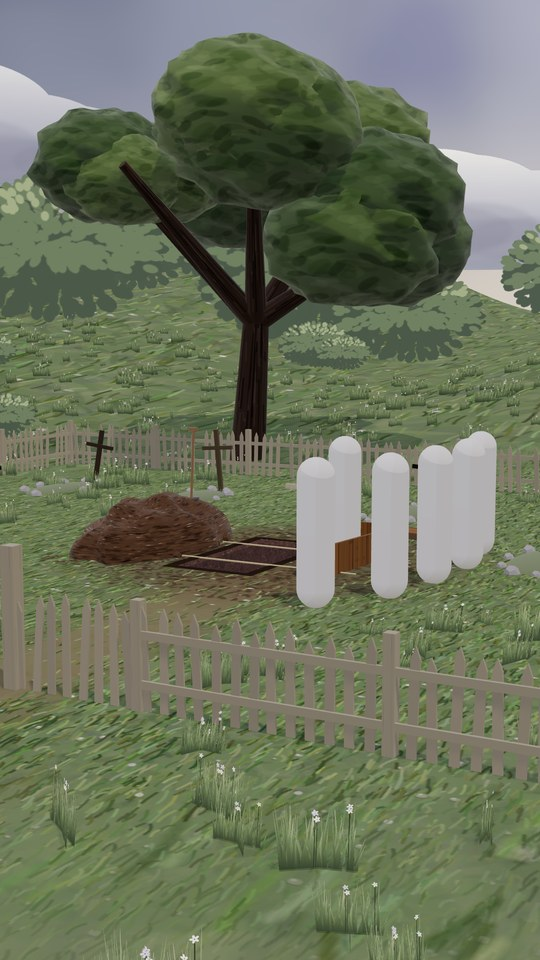
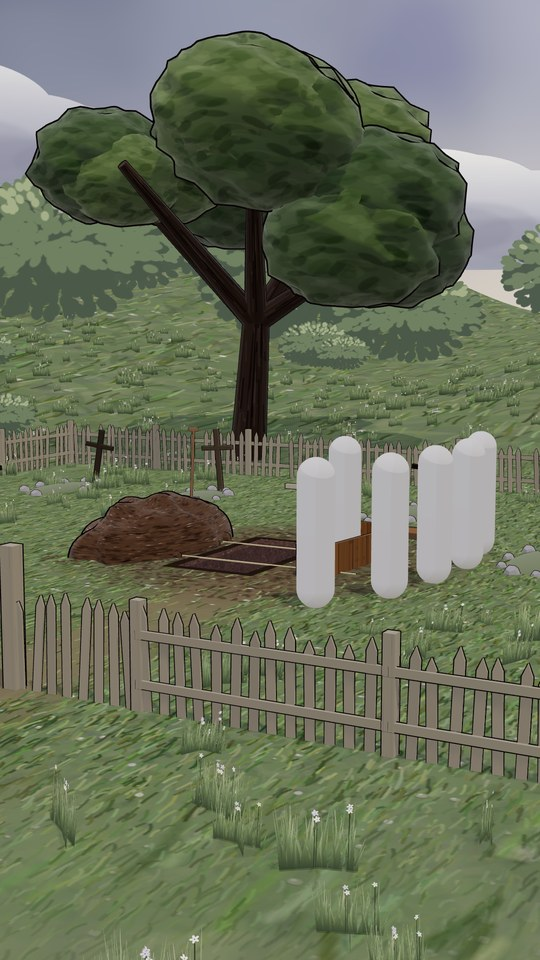
Stadium set (night game, floodlights, instanced cheering crowd); working ink outlines for cabin/graveyard/stadium
kit.ts inkMat offsets along objectNormal, which MeshBasicMaterial only declares for skinned or
env-mapped meshes, so ink shells on static props failed to compile. h2kit now has its own ink
(normal attribute, program cache keyed by width) used by these sets. Cabin pines kept clear of the cameras.

diff --git a/src/anime/sets/stadium.ts b/src/anime/sets/stadium.ts
@@ -1,4 +1,155 @@
-// STUB: replaced by the helper building this set.
+// Night game: one side of a football stadium under big floodlights. Field along X (centre at the origin, 100 yd + end zones),
+// the packed home stand rises on the -Z side. Crowd = instanced simple people that bob, jump and wave (deterministic per t).
+// Neutral colours only (blue/white home crowd mixed with assorted coats), no logos, no real school colours.
 import * as THREE from "three";
 import type { BuiltSet } from "./types";
-export const buildStadium = (): BuiltSet => { const g = new THREE.Group(); g.add(new THREE.AmbientLight("#ffffff", 1)); const m = new THREE.Mesh(new THREE.BoxGeometry(2, 2, 2), new THREE.MeshBasicMaterial({ color: "#cc4444" })); m.position.y = 1; g.add(m); return { group: g, update: () => {}, cams: { main: { pos: [0, 2, 8], look: [0, 1, 0], fov: 34 } }, marks: { center: [0, 0, 0] } }; };
+import { canvasTex, dab } from "../farm";
+import { smoothNormals } from "../kit";
+import { mkRnd, toonN, noShadow, glow, glowSprite, cyl, paintedSky, keyLight, ink, box, inkMatS } from "./h2kit";
+
+const YD = 0.9144; const HALF_W = 26.67 * YD; const END = 60 * YD; // sideline z = +-24.38, back of end zone x = +-54.86
+export const buildStadium = (): BuiltSet => {
+  const rnd = mkRnd(311); const g = new THREE.Group();
+  // ---------- field: painted turf with mowing stripes, yard lines, hashes, numbers ----------
+  const FW = 124, FD = 60, PXX = 4096 / FW, PXZ = 2048 / FD; const F = (x: number, z: number): [number, number] => [(x + FW / 2) * PXX, (z + FD / 2) * PXZ];
+  const fieldTex = canvasTex(4096, 2048, (c) => {
+    c.fillStyle = "#3e5a3a"; c.fillRect(0, 0, 4096, 2048); // run-off: darker, a touch of the track
+    const [ax, az] = F(-END, -HALF_W), [bx, bz] = F(END, HALF_W);
+    for (let i = 0; i < 24; i++) { const x0 = -END + i * 5 * YD; const [p] = F(x0, 0), [q] = F(x0 + 5 * YD, 0); c.fillStyle = i % 2 ? "#4f8a3e" : "#5a9846"; c.fillRect(p, az, q - p + 1, bz - az); } // mowing stripes every 5 yd
+    for (let i = 0; i < 26000; i++) dab(c, ax + rnd() * (bx - ax), az + rnd() * (bz - az), 3 + rnd() * 10, 1.5 + rnd() * 3, rnd() * 3, ["rgba(120,170,80,0.18)", "rgba(40,70,40,0.16)", "rgba(160,200,110,0.12)"][(rnd() * 3) | 0]);
+    for (let i = 0; i < 60; i++) { const x = (rnd() - 0.5) * 2 * 40, z = (rnd() - 0.5) * 2 * 18; const [p, q] = F(x, z); const r = 20 + rnd() * 60; const gr = c.createRadialGradient(p, q, 0, p, q, r); gr.addColorStop(0, "rgba(120,110,70,0.18)"); gr.addColorStop(1, "rgba(0,0,0,0)"); c.fillStyle = gr; c.fillRect(p - r, q - r, 2 * r, 2 * r); } // worn patches
+    // end zones: neutral slate with thin white diagonals
+    for (const s of [-1, 1]) { const [p] = F(s * 50 * YD, 0), [q] = F(s * END, 0); const x0 = Math.min(p, q), w = Math.abs(q - p); c.fillStyle = "#355a74"; c.fillRect(x0, az, w, bz - az);
+      c.save(); c.beginPath(); c.rect(x0, az, w, bz - az); c.clip(); c.strokeStyle = "rgba(240,244,250,0.55)"; c.lineWidth = 7; for (let k = -40; k < 40; k++) { const o = x0 + k * 70; c.beginPath(); c.moveTo(o, az); c.lineTo(o + (bz - az), bz); c.stroke(); } c.restore(); }
+    const white = "rgba(246,248,244,0.95)"; c.fillStyle = white;
+    const lw = 0.1 * PXX; for (let y = -50; y <= 50; y += 5) { const [p] = F(y * YD, 0); c.fillRect(p - lw / 2, az, lw, bz - az); }
+    for (const s of [-1, 1]) { const [p] = F(s * END, 0); c.fillRect(p - lw, az, lw * 2, bz - az); }
+    c.fillRect(ax, az - lw, bx - ax, lw * 2); c.fillRect(ax, bz - lw, bx - ax, lw * 2);                         // sidelines
+    for (let y = -49; y <= 49; y++) { if (y % 5 === 0) continue; const [p] = F(y * YD, 0); for (const z of [-HALF_W + 0.3, -6.1, 6.1, HALF_W - 0.9]) { const [, q] = F(0, z); c.fillRect(p - lw / 2, q, lw, 0.6 * PXZ); } } // hashes
+    c.font = `bold ${Math.round(1.8 * PXZ)}px sans-serif`; c.textAlign = "center"; c.textBaseline = "middle";
+    for (let y = -40; y <= 40; y += 10) { const n = 50 - Math.abs(y); const [p] = F(y * YD, 0);
+      for (const s of [-1, 1]) { const [, q] = F(0, s * (HALF_W - 11.5)); c.save(); c.translate(p, q); c.rotate(s > 0 ? 0 : Math.PI); c.fillText(n === 50 ? "5 0" : `${n / 10}   0`.replace("   ", " "), 0, 0); c.restore(); } }
+    for (let i = 0; i < 9000; i++) { const x = ax + rnd() * (bx - ax), y = az + rnd() * (bz - az); dab(c, x, y, 1 + rnd() * 2, 0.6, rnd() * 3, "rgba(30,60,30,0.22)"); } // scuffs over the paint
+  });
+  const turfDetail = canvasTex(256, 256, (c) => { c.fillStyle = "#ffffff"; c.fillRect(0, 0, 256, 256); for (let i = 0; i < 2200; i++) { const x = rnd() * 256, y = rnd() * 256; c.strokeStyle = `rgba(${150 + rnd() * 60},${150 + rnd() * 60},${150 + rnd() * 60},0.8)`; c.lineWidth = 1.3; c.beginPath(); c.moveTo(x, y); c.lineTo(x + (rnd() - 0.5) * 3, y - 4 - rnd() * 5); c.stroke(); } }, [FW * 1.5, FD * 1.5]);
+  const ramp = new THREE.DataTexture(new Uint8Array([110, 120, 160, 255, 200, 205, 215, 255, 255, 255, 255, 255]), 3, 1); ramp.minFilter = ramp.magFilter = THREE.NearestFilter; ramp.needsUpdate = true;
+  const field = new THREE.Mesh(new THREE.PlaneGeometry(FW, FD), new THREE.MeshToonMaterial({ map: fieldTex, gradientMap: ramp, aoMap: turfDetail, aoMapIntensity: 0.6, emissive: "#2a3a68", emissiveMap: fieldTex, emissiveIntensity: 0.3 })); field.rotation.x = -Math.PI / 2; g.add(field);
+  const outer = new THREE.Mesh(new THREE.CircleGeometry(400, 48), new THREE.MeshBasicMaterial({ color: "#0e1424" })); outer.rotation.x = -Math.PI / 2; outer.position.y = -0.03; g.add(noShadow(outer));
+
+  // ---------- goalposts (gooseneck, yellow, padded base) ----------
+  const yel = toonN("#f2cc3a", { shade: 0.6, rim: 0.3 }); const pad = toonN("#3a4a6a", { shade: 0.55 });
+  for (const s of [-1, 1]) { const gp = new THREE.Group(); const x = s * END;
+    gp.add(cyl(0.17, 0.17, 3.05, yel, s * 1.8, 1.52, 0, 0.02, 12)); gp.add(cyl(0.3, 0.3, 2.0, pad, s * 1.8, 1.0, 0, 0.02, 14));
+    const neck = new THREE.Mesh(new THREE.TorusGeometry(0.9, 0.12, 8, 16, Math.PI / 2), yel); neck.rotation.y = s > 0 ? 0 : Math.PI; neck.position.set(s * 0.9, 3.05, 0); ink(neck, 0.015); gp.add(neck);
+    const bar = cyl(0.1, 0.1, 5.64, yel, 0, 3.95, 0, 0.015, 10); bar.rotation.x = Math.PI / 2; gp.add(bar);
+    for (const z of [-2.82, 2.82]) gp.add(cyl(0.07, 0.07, 9.2, yel, 0, 3.95 + 4.6, z, 0.012, 10));
+    for (const z of [-2.82, 2.82]) { const rib = box(0.03, 1.0, 0.25, new THREE.MeshBasicMaterial({ color: "#e6eef8", toneMapped: false }), 0, 3.95 + 9.0, z, 0.004); gp.add(rib); } // wind ribbons
+    gp.position.x = x; g.add(gp); }
+
+  // ---------- the home stand (-Z side) ----------
+  const rows = 34, rise = 0.46, deep = 0.86, wallH = 1.7, z0 = -HALF_W - 4.2, SX = 58; // stand front wall at z ~ -28.6
+  const concrete = toonN("#8c8c9a", { shade: 0.55, map: canvasTex(256, 256, (c) => { c.fillStyle = "#c4c4cc"; c.fillRect(0, 0, 256, 256); for (let i = 0; i < 900; i++) dab(c, rnd() * 256, rnd() * 256, 2 + rnd() * 8, 1 + rnd() * 3, rnd() * 3, rnd() < 0.5 ? "rgba(90,90,110,0.12)" : "rgba(255,255,255,0.15)"); }, [20, 1]) });
+  // stepped concrete as one extruded profile
+  const prof = new THREE.Shape(); prof.moveTo(0, 0); prof.lineTo(0, wallH); for (let i = 0; i < rows; i++) { prof.lineTo(i * deep + deep, wallH + i * rise); prof.lineTo(i * deep + deep, wallH + (i + 1) * rise); } prof.lineTo(rows * deep + 1.5, wallH + rows * rise); prof.lineTo(rows * deep + 1.5, 0); prof.closePath();
+  const standGeo = new THREE.ExtrudeGeometry(prof, { depth: SX * 2, bevelEnabled: false }); standGeo.rotateY(Math.PI / 2); // profile x -> -Z... rotateY(+90) maps x -> -z, extrude z -> x
+  standGeo.translate(-SX, 0, z0); const stand = new THREE.Mesh(standGeo, concrete); ink(stand, 0.03); g.add(stand);
+  const rowY = (i: number) => wallH + i * rise, rowZ = (i: number) => z0 - i * deep - deep * 0.55;
+  // padded front wall with plain panels + top rail, aisles (stairs), vomitory tunnels
+  const wallTex = canvasTex(1024, 64, (c) => { for (let i = 0; i < 16; i++) { c.fillStyle = i % 2 ? "#28406a" : "#2e4a78"; c.fillRect(i * 64, 0, 64, 64); c.fillStyle = "rgba(240,240,250,0.85)"; c.fillRect(i * 64, 44, 64, 6); c.fillStyle = "rgba(0,0,0,0.35)"; c.fillRect(i * 64, 0, 2, 64); } }, [8, 1]);
+  g.add(box(SX * 2, wallH, 0.3, toonN("#c8d4ec", { map: wallTex, shade: 0.55 }), 0, wallH / 2, z0 + 0.16, 0.02));
+  const railM = toonN("#c8ccd8", { shade: 0.5, rim: 0.4 }); { const r = cyl(0.04, 0.04, SX * 2, railM, 0, wallH + 0.95, z0 - 0.25, 0.008, 6); r.rotation.z = Math.PI / 2; g.add(r); for (let x = -SX; x <= SX; x += 3) g.add(cyl(0.03, 0.03, 0.95, railM, x, wallH + 0.47, z0 - 0.25, 0, 6)); }
+  const aisles = [-44, -30, -15, 0, 15, 30, 44];
+  for (const ax of aisles) { const r = cyl(0.03, 0.03, Math.hypot(rows * deep, rows * rise), railM, ax, wallH + rows * rise / 2 + 0.9, z0 - rows * deep / 2, 0.006, 6); r.rotation.x = -Math.atan2(rows * deep, rows * rise); g.add(r);
+    for (let i = 0; i < rows; i++) g.add(box(1.1, 0.06, deep * 0.5, toonN("#e8d24a", { shade: 0.6 }), ax, rowY(i) + 0.03, z0 - i * deep - deep * 0.25, 0)); }
+  // bench seats (merged, one per row segment)
+  const seatM = toonN("#9aa6bc", { shade: 0.55 }); for (let i = 0; i < rows; i++) { const b = box(SX * 2, 0.06, 0.32, seatM, 0, rowY(i) + 0.45, rowZ(i) + 0.18, 0.006); g.add(b); }
+  // press box + back wall + roof edge lights on top of the stand
+  const topY = wallH + rows * rise, backZ = z0 - rows * deep - 1.5;
+  g.add(box(SX * 2 + 2, 2.4, 0.5, concrete, 0, topY + 1.2, backZ, 0.02));
+  const pb = new THREE.Group(); pb.add(box(40, 6, 6, toonN("#5a6274", { shade: 0.5 }), 0, 3, 0, 0.03)); pb.add(box(41, 0.4, 7, toonN("#3a4252", { shade: 0.5 }), 0, 6.2, 0, 0.02));
+  const winTex = canvasTex(1024, 64, (c) => { c.fillStyle = "#1a1e2a"; c.fillRect(0, 0, 1024, 64); for (let i = 0; i < 26; i++) { const gr = c.createLinearGradient(0, 8, 0, 56); gr.addColorStop(0, "#fff2c8"); gr.addColorStop(1, "#e8b070"); c.fillStyle = rnd() < 0.85 ? gr : "#3a3a50"; c.fillRect(8 + i * 39, 8, 33, 48); for (let k = 0; k < 2; k++) if (rnd() < 0.6) { c.fillStyle = "rgba(40,30,40,0.8)"; c.beginPath(); c.arc(16 + i * 39 + rnd() * 18, 50, 7, Math.PI, 0); c.fill(); } } });
+  const pw = new THREE.Mesh(new THREE.PlaneGeometry(38, 2.2), new THREE.MeshBasicMaterial({ map: winTex, toneMapped: false })); pw.position.set(0, 3.4, 3.02); pb.add(noShadow(pw)); pb.position.set(0, topY + 0.2, backZ - 3.2); g.add(pb);
+  // stand end walls
+  for (const s of [-1, 1]) { const e = new THREE.Mesh(new THREE.ShapeGeometry(prof), concrete); e.rotation.y = Math.PI / 2; e.position.set(s * SX * 1.0005, 0, z0); if (s < 0) { e.rotation.y = -Math.PI / 2; e.scale.x = -1; } g.add(e); }
+
+  // ---------- the crowd: instanced bodies, heads, raised arms; bob / jump / wave ----------
+  const homeCols = ["#3a5688", "#3a5688", "#ecebe4", "#2c4470", "#ecebe4", "#5a74a4"]; const misc = ["#8a3a3a", "#c89a48", "#4a6a4a", "#6a5a8a", "#a8a8b4", "#3a3a44", "#a86a4a", "#d8ccb0", "#5a4a40", "#7a8a9a"];
+  const skin = ["#f2c8a8", "#e0aa84", "#b07a58", "#7a5038", "#f6d8bc"]; const hair = ["#2a1e1a", "#5a3a24", "#c89858", "#1a1a1e", "#8a5a3a", "#d8d0c8"];
+  type P = { x: number; y: number; z: number; ph: number; mode: number; s: number }; const ppl: P[] = [];
+  for (let i = 0; i < rows; i++) for (let x = -SX + 0.4; x < SX - 0.3; x += 0.58) { if (aisles.some((a) => Math.abs(x - a) < 0.7)) continue; if (rnd() < 0.05) continue; ppl.push({ x: x + (rnd() - 0.5) * 0.14, y: rowY(i), z: rowZ(i) + (rnd() - 0.5) * 0.1, ph: rnd() * 6.28, mode: rnd() < 0.42 ? 2 : rnd() < 0.5 ? 1 : 0, s: 0.92 + rnd() * 0.14 }); }
+  const N = ppl.length;
+  const crowdMat = (rough = false) => new THREE.MeshToonMaterial({ gradientMap: ramp, color: "#ffffff", emissive: "#1c2448", emissiveIntensity: rough ? 0.5 : 0.4 });
+  const bodyGeo = new THREE.CylinderGeometry(0.17, 0.22, 0.95, 8); bodyGeo.translate(0, 0.95 / 2 + 0.55, 0);
+  const headGeo = new THREE.SphereGeometry(0.115, 10, 8); headGeo.translate(0, 1.66, 0);
+  const hairGeo = new THREE.SphereGeometry(0.122, 10, 6, 0, Math.PI * 2, 0, Math.PI * 0.55); hairGeo.translate(0, 1.68, -0.01);
+  const armGeo = new THREE.BoxGeometry(0.09, 0.62, 0.09); armGeo.translate(0, 0.31, 0);
+  const bodies = new THREE.InstancedMesh(bodyGeo, crowdMat(), N), heads = new THREE.InstancedMesh(headGeo, crowdMat(), N), hairs = new THREE.InstancedMesh(hairGeo, crowdMat(), N), arms = new THREE.InstancedMesh(armGeo, crowdMat(), N * 2);
+  const col = new THREE.Color(); ppl.forEach((p, i) => { const home = Math.abs(p.x) < 40 ? 0.58 : 0.35; const shirt = rnd() < home ? homeCols[(rnd() * homeCols.length) | 0] : misc[(rnd() * misc.length) | 0];
+    bodies.setColorAt(i, col.set(shirt)); heads.setColorAt(i, col.set(skin[(rnd() * skin.length) | 0])); hairs.setColorAt(i, col.set(rnd() < 0.2 ? shirt : hair[(rnd() * hair.length) | 0])); arms.setColorAt(i * 2, col.set(shirt)); arms.setColorAt(i * 2 + 1, col.set(shirt)); });
+  for (const m of [bodies, heads, hairs, arms]) { m.frustumCulled = false; g.add(m); }
+  // ink outlines for the crowd: instanced back-face shells sharing the same instance matrices
+  for (const [m, w] of [[bodies, 0.025], [heads, 0.016], [arms, 0.016]] as [THREE.InstancedMesh, number][]) { const sg = smoothNormals(m.geometry); const p = sg.getAttribute("position") as THREE.BufferAttribute, n = sg.getAttribute("normal") as THREE.BufferAttribute; for (let i = 0; i < p.count; i++) p.setXYZ(i, p.getX(i) + n.getX(i) * w, p.getY(i) + n.getY(i) * w, p.getZ(i) + n.getZ(i) * w); // pre-inflated: inkMat programs share one cached width
+    const o = new THREE.InstancedMesh(sg, inkMatS(0), m.count); o.instanceMatrix = m.instanceMatrix; o.frustumCulled = false; noShadow(o); g.add(o); }
+  // a few plain hand-held cards and foam fingers (no text) + pom-poms
+  const cardM = new THREE.InstancedMesh(new THREE.BoxGeometry(0.7, 0.45, 0.02), crowdMat(), 60); const cardIdx: number[] = []; for (let k = 0; k < 60; k++) { const i = (rnd() * N) | 0; cardIdx.push(i); cardM.setColorAt(k, col.set(["#f2f2ee", "#f2d24a", "#2e5a9a", "#e86a4a"][k % 4])); } cardM.frustumCulled = false; g.add(cardM);
+  const M4 = new THREE.Matrix4(), Q = new THREE.Quaternion(), E = new THREE.Euler(), V = new THREE.Vector3(), S = new THREE.Vector3();
+  const poseCrowd = (t: number) => { ppl.forEach((p, i) => {
+      const beat = t * (p.mode === 2 ? 5.2 : 3.1) + p.ph; const jump = p.mode === 2 ? Math.max(0, Math.sin(beat)) * 0.16 : p.mode === 1 ? Math.abs(Math.sin(beat)) * 0.05 : Math.sin(beat * 0.5) * 0.015; const sway = Math.sin(t * 1.7 + p.ph) * 0.06;
+      S.setScalar(p.s); Q.setFromEuler(E.set(0.12, 0, sway)); V.set(p.x, p.y + jump, p.z); M4.compose(V, Q, S); bodies.setMatrixAt(i, M4); heads.setMatrixAt(i, M4); hairs.setMatrixAt(i, M4);
+      for (const side of [-1, 1]) { const up = p.mode === 2 ? 2.6 + Math.sin(beat + side) * 0.25 : p.mode === 1 ? (side > 0 ? 2.9 + Math.sin(beat * 2) * 0.35 : 0.15) : 0.15; Q.setFromEuler(E.set(0.1, 0, -side * (Math.PI - up))); V.set(p.x + side * 0.2 * p.s, p.y + jump + 1.38 * p.s, p.z); M4.compose(V, Q, S); arms.setMatrixAt(i * 2 + (side > 0 ? 1 : 0), M4); } });
+    cardIdx.forEach((i, k) => { const p = ppl[i]; const beat = t * 3 + p.ph; Q.setFromEuler(E.set(0.15, 0, Math.sin(beat) * 0.2)); V.set(p.x, p.y + 2.0 + Math.abs(Math.sin(beat)) * 0.12, p.z + 0.05); M4.compose(V, Q, S.setScalar(1)); cardM.setMatrixAt(k, M4); });
+    for (const m of [bodies, heads, hairs, arms, cardM]) m.instanceMatrix.needsUpdate = true; };
+  poseCrowd(0);
+
+  // ---------- floodlight towers: lattice pole, lamp bank, glow, light beams ----------
+  const towerM = toonN("#6a7080", { shade: 0.5, rim: 0.3 }); const lampM = new THREE.MeshBasicMaterial({ color: "#f4f8ff", toneMapped: false });
+  const beamTex = canvasTex(64, 256, (c) => { const gr = c.createLinearGradient(0, 0, 0, 256); gr.addColorStop(0, "rgba(220,235,255,0.55)"); gr.addColorStop(1, "rgba(200,220,255,0)"); c.fillStyle = gr; c.fillRect(0, 0, 64, 256); const h = c.createLinearGradient(0, 0, 64, 0); h.addColorStop(0, "rgba(0,0,0,1)"); h.addColorStop(0.5, "rgba(0,0,0,0)"); h.addColorStop(1, "rgba(0,0,0,1)"); c.globalCompositeOperation = "destination-out"; c.fillStyle = h; c.fillRect(0, 0, 64, 256); });
+  const flareT = glow("rgba(235,242,255,1)"); const haloT = glow("rgba(170,195,255,0.7)");
+  const tower = (x: number, z: number, h: number) => { const tg = new THREE.Group(); const L = 1.6;
+    for (const [sx, sz] of [[-1, -1], [1, -1], [1, 1], [-1, 1]]) tg.add(box(0.14, h, 0.14, towerM, sx * L / 2, h / 2, sz * L / 2, 0.01));
+    for (let y = 2; y < h; y += 2.4) { for (const sz of [-1, 1]) { const b = box(L * 1.4, 0.06, 0.06, towerM, 0, y + 1.2, sz * L / 2, 0); b.rotation.z = 0.98 * (Math.floor(y / 2.4) % 2 ? 1 : -1); tg.add(b); } for (const sx of [-1, 1]) { const b = box(0.06, 0.06, L * 1.4, towerM, sx * L / 2, y + 1.2, 0, 0); b.rotation.x = 0.98 * (Math.floor(y / 2.4) % 2 ? 1 : -1); tg.add(b); } }
+    const head = new THREE.Group(); head.position.set(0, h + 2.2, 0); head.add(box(9, 4.6, 0.4, towerM, 0, 0, 0, 0.02)); for (let r = 0; r < 3; r++) head.add(box(9.2, 0.12, 0.6, towerM, 0, -2.1 + r * 1.55, 0.3, 0.01));
+    for (let r = 0; r < 3; r++) for (let k = 0; k < 6; k++) { const lx = -3.75 + k * 1.5, ly = -1.5 + r * 1.55; const cup = cyl(0.62, 0.5, 0.5, towerM, lx, ly, 0.35, 0.012, 14); cup.rotation.x = Math.PI / 2; head.add(cup); const lens = new THREE.Mesh(new THREE.CircleGeometry(0.5, 20), lampM); lens.position.set(lx, ly, 0.62); head.add(noShadow(lens));
+      const f = glowSprite(flareT, 2.6, 0.75); f.position.set(lx, ly, 0.9); head.add(f); }
+    const halo = glowSprite(haloT, 26, 0.55); halo.position.set(0, 0, 1.5); head.add(halo);
+    // aim the lamp bank at the field centre
+    tg.position.set(x, 0, z); tg.add(head); head.rotation.order = "YXZ"; head.rotation.set(0.35, Math.atan2(-x, -z), 0);
+    // soft additive beams fanning from the lamps to the field
+    const beams: THREE.Mesh[] = []; for (let k = 0; k < (z > 0 ? 0 : 4); k++) { const len = Math.hypot(x, z, h) * 0.9; const b = new THREE.Mesh(new THREE.ConeGeometry(6 + k * 2.5, len, 24, 1, true), new THREE.MeshBasicMaterial({ map: beamTex, transparent: true, depthWrite: false, blending: THREE.AdditiveBlending, side: THREE.DoubleSide, toneMapped: false, opacity: 0.07, fog: false }));
+      b.geometry.translate(0, -len / 2, 0); b.position.set(x, h + 2.2, z); const tgt = new THREE.Vector3((rnd() - 0.5) * 30 - x * 0.2, 0, (rnd() - 0.5) * 20 - z * 0.15); const d = tgt.clone().sub(b.position).normalize(); b.quaternion.setFromUnitVectors(new THREE.Vector3(0, -1, 0), d); g.add(noShadow(b)); beams.push(b); }
+    g.add(tg); return tg; };
+  const TH = 38; for (const [x, z] of [[-42, backZ - 14], [42, backZ - 14], [-62, 38], [62, 38]] as [number, number][]) tower(x, z, TH);
+  // scoreboard at the west end (plain, no brand): HOME 21  GUEST 17, 4th quarter clock
+  const sb = new THREE.Group(); sb.add(box(14, 6.5, 0.8, toonN("#2a2e3a", { shade: 0.5 }), 0, 0, 0, 0.03)); for (const sx of [-4.5, 4.5]) sb.add(box(0.6, 12, 0.6, towerM, sx, -6.5, -0.5, 0.02));
+  const sbTex = canvasTex(1024, 448, (c) => { c.fillStyle = "#0c0e14"; c.fillRect(0, 0, 1024, 448); c.textAlign = "center"; c.fillStyle = "#f4f2e8"; c.font = "bold 64px sans-serif"; c.fillText("HOME", 250, 90); c.fillText("GUEST", 774, 90);
+    c.fillStyle = "#ffb84a"; c.font = "bold 180px monospace"; c.fillText("21", 250, 270); c.fillText("17", 774, 270); c.fillStyle = "#ff6a4a"; c.font = "bold 90px monospace"; c.fillText("0:42", 512, 400); c.fillStyle = "#f4f2e8"; c.font = "bold 50px sans-serif"; c.fillText("QTR 4", 512, 200); });
+  const sbFace = new THREE.Mesh(new THREE.PlaneGeometry(13, 5.7), new THREE.MeshBasicMaterial({ map: sbTex, toneMapped: false })); sbFace.position.z = 0.42; sb.add(noShadow(sbFace)); sb.position.set(-END - 18, 14, -6); sb.rotation.y = Math.PI / 2; g.add(sb);
+  // team benches + a few sideline props on the far (-Z) sideline
+  for (const s of [-1, 1]) { g.add(box(14, 0.08, 0.45, toonN("#c8ccd8"), s * 14, 0.48, -HALF_W - 2.3, 0.008)); for (let k = 0; k < 5; k++) g.add(box(0.08, 0.48, 0.4, towerM, s * 14 - 6.5 + k * 3.25, 0.24, -HALF_W - 2.3, 0)); }
+  for (const s of [-1, 1]) { const cooler = cyl(0.3, 0.3, 0.6, toonN("#e8823a", { shade: 0.55 }), s * 5.5, 0.3, -HALF_W - 1.8, 0.012, 14); g.add(cooler); g.add(cyl(0.31, 0.31, 0.08, toonN("#f2f2ee"), s * 5.5, 0.64, -HALF_W - 1.8, 0.008, 14)); }
+  // sideline markers (plain orange pylons at the goal line corners)
+  for (const sx of [-1, 1]) for (const sz of [-1, 1]) for (const x of [50 * YD, END]) g.add(box(0.1, 0.45, 0.1, toonN("#ff7a2a", { shade: 0.6 }), sx * x, 0.225, sz * HALF_W, 0.006));
+
+  // ---------- sky + lights ----------
+  g.add(paintedSky({ zen: "#050817", mid: "#0f1a3a", hor: "#2a3a66", below: "#0a1020", light: new THREE.Vector3(0, 0.25, -1), lightCol: "#3a4c80", lightPow: 3, stars: 0.5 }));
+  // floodlit haze: a big soft glow over the stand roofline
+  const haze = glowSprite(glow("rgba(120,150,220,0.6)"), 140, 0.35); haze.position.set(0, topY + 10, backZ - 30); g.add(haze);
+  // moths / bugs in the light beams near the camera-side towers? keep it clean: a few floating confetti flecks over the stand
+  const NC = 220; const cg = new THREE.BufferGeometry(); const c0 = new Float32Array(NC * 3); const cc = new Float32Array(NC * 3); for (let i = 0; i < NC; i++) { c0.set([(rnd() - 0.5) * 90, 2 + rnd() * 16, z0 - rnd() * 26], i * 3); col.set(["#f2f2ee", "#2e5a9a", "#f2d24a"][i % 3]); cc.set([col.r, col.g, col.b], i * 3); }
+  cg.setAttribute("position", new THREE.BufferAttribute(c0.slice(), 3)); cg.setAttribute("color", new THREE.BufferAttribute(cc, 3)); const conf = new THREE.Points(cg, new THREE.PointsMaterial({ size: 0.12, vertexColors: true, toneMapped: false })); g.add(conf);
+  g.add(new THREE.HemisphereLight("#7a8cd0", "#1a2a1a", 0.9));
+  const key = keyLight("#eef4ff", 2.3, new THREE.Vector3(0.25, 0.75, 0.62), 70, new THREE.Vector3(0, 0, -18)); key.shadow.camera.far = 220; key.position.copy(new THREE.Vector3(0, 0, -18)).addScaledVector(new THREE.Vector3(0.25, 0.75, 0.62).normalize(), 110); g.add(key, key.target);
+  const back = new THREE.DirectionalLight("#c4d4ff", 1.0); back.position.set(-20, 40, -80); g.add(back);
+  const fieldFill = new THREE.DirectionalLight("#e8f0ff", 0.5); fieldFill.position.set(30, 50, 20); g.add(fieldFill);
+  const fog = new THREE.Fog("#141c38", 80, 300);
+  return {
+    group: g, fog,
+    update: (t) => { poseCrowd(t); const p = cg.getAttribute("position") as THREE.BufferAttribute; for (let i = 0; i < NC; i++) { const y = c0[i * 3 + 1] - ((t * (0.6 + (i % 7) * 0.08)) % 18); p.setXYZ(i, c0[i * 3] + Math.sin(t * 1.5 + i) * 0.5, y < 1.8 ? y + 18 : y, c0[i * 3 + 2] + Math.cos(t + i) * 0.3); } p.needsUpdate = true; },
+    cams: {
+      main: { pos: [-24, 9, 26], look: [4, 7, -32], fov: 50 },
+      field: { pos: [1.2, 0.75, -12.5], look: [0, 1.6, -21.5], fov: 44 },
+      crowd: { pos: [-2.5, 2.2, -21.5], look: [2.5, 8.5, -36], fov: 46 },
+    },
+    marks: { mascot: [0, 0, -21.5], crowdFront: [0.6, rowY(0), rowZ(0) - 0.1] },
+  };
+};

diff --git a/src/anime/sets/cabin.ts b/src/anime/sets/cabin.ts
@@ -2,8 +2,8 @@
 // comes up from +Z. Rifle leaning by the door, two silhouettes behind the lit window (object "windowSilhouettes", hide if not wanted).
 import * as THREE from "three";
 import type { BuiltSet } from "./types";
-import { canvasTex, dab, ink, box, stones } from "../farm";
-import { mkRnd, toonN, noShadow, glow, glowSprite, lightPool, cyl, paintedSky, pine3D, pineTex, grassTex, grassField, groundMat, keyLight } from "./h2kit";
+import { canvasTex, dab, stones } from "../farm";
+import { mkRnd, toonN, noShadow, glow, glowSprite, lightPool, cyl, paintedSky, pine3D, pineTex, grassTex, grassField, groundMat, keyLight, ink, box } from "./h2kit";
 
 const MOON_SKY = new THREE.Vector3(-0.12, 0.27, -1).normalize(); // where the moon sits in the sky (behind the cabin for the approach)
 const MOON_KEY = new THREE.Vector3(-0.6, 0.68, 0.42);               // where the moonlight comes from (cheated round to the front-left, anime style)
@@ -162,7 +162,8 @@ export const buildCabin = (): BuiltSet => {
 
   // ---------- the pine wood: 3D pines round the clearing, painted billboards behind ----------
   const pineM = [toonN("#2f5a4e", { shade: 0.45, rim: 0.25 }), toonN("#28503f", { shade: 0.45, rim: 0.25 }), toonN("#35604c", { shade: 0.45, rim: 0.25 })]; const barkM = toonN("#4a3a34", { shade: 0.5 });
-  const clear = (x: number, z: number, r: number) => Math.hypot(x * 0.85, z - 1) < r || (z > 3 && Math.abs(x - trackX(z)) < 3.8 + z * 0.02);
+  const camXZ = [[8.5, 15.5], [trackX(30) + 0.6, 30], [2.2, 9.8]]; // keep trunks + boughs away from the shot cameras
+  const clear = (x: number, z: number, r: number) => Math.hypot(x * 0.85, z - 1) < r || (z > 3 && Math.abs(x - trackX(z)) < 3.8 + z * 0.02) || camXZ.some(([cx, cz]) => Math.hypot(x - cx, z - cz) < 6);
   let placed = 0; for (let i = 0; i < 900 && placed < 70; i++) { const a = rnd() * Math.PI * 2, d = 13 + rnd() * 32; const x = Math.sin(a) * d * 1.1, z = Math.cos(a) * d + 1; if (clear(x, z, 13)) continue; const h = 9 + rnd() * 9; const p = pine3D(h, pineM[(rnd() * 3) | 0], barkM, rnd, 0.035); p.position.set(x, 0, z); p.rotation.y = rnd() * 6; g.add(p); placed++; }
   for (const [x, z, h] of [[-8.5, -5, 11], [7.8, -6, 13], [-11, 4, 9.5], [10.5, 3, 10], [-6.5, 12, 7], [12, 20, 8.5], [-8, 21, 9]] as [number, number, number][]) { const p = pine3D(h, pineM[(rnd() * 3) | 0], barkM, rnd, 0.03); p.position.set(x, 0, z); g.add(p); }
   const ptex = [pineTex("#1f3a40", "#142630", "rgba(150,190,230,0.55)", rnd), pineTex("#22413f", "#162a2e", "rgba(140,180,225,0.5)", rnd)];

diff --git a/src/anime/sets/h2kit.ts b/src/anime/sets/h2kit.ts
@@ -1,7 +1,19 @@
 // Shared helpers for the cabin / graveyard / campus / stadium sets (same painterly anime look as farm.ts).
 import * as THREE from "three";
 import { toon } from "../kit";
-import { canvasTex, dab, ink } from "../farm";
+import { canvasTex, dab } from "../farm";
+import { smoothNormals } from "../kit";
+
+// Ink outline that works on static meshes: kit.ts inkMat offsets along objectNormal, which MeshBasicMaterial only declares
+// for skinned / env-mapped meshes (so farm.ts ink shells fail to compile on props). This one uses the normal attribute
+// and keys the program cache by width (otherwise every width shares the first compiled program).
+const inkCache = new Map<string, THREE.MeshBasicMaterial>();
+export const inkMatS = (w = 0.02, color = "#1b1416") => { const key = w.toFixed(5) + color; let m = inkCache.get(key); if (m) return m;
+  m = new THREE.MeshBasicMaterial({ color, side: THREE.BackSide });
+  m.onBeforeCompile = (s) => { s.vertexShader = s.vertexShader.replace("#include <begin_vertex>", `float inkL = length(normal); vec3 transformed = position + (inkL > 1e-4 ? normal / inkL : vec3(0.0)) * ${w.toFixed(5)};`); };
+  m.customProgramCacheKey = () => "inkS" + w.toFixed(5); inkCache.set(key, m); return m; };
+export const ink = (m: THREE.Mesh, w = 0.025) => { const o = new THREE.Mesh(smoothNormals(m.geometry), inkMatS(w)); m.add(o); return m; };
+export const box = (w: number, h: number, d: number, mat: THREE.Material, x = 0, y = 0, z = 0, iw = 0.02) => { const m = new THREE.Mesh(new THREE.BoxGeometry(w, h, d), mat); m.position.set(x, y, z); if (iw) ink(m, iw); return m; };
 
 export const mkRnd = (s: number) => { let seed = s; return () => ((seed = (seed * 16807) % 2147483647) / 2147483647); };
 // toon variants: night (shadow goes deep indigo), overcast (grey-violet), day (soft violet like the farm)

diff --git a/src/anime/sets/graveyard.ts b/src/anime/sets/graveyard.ts
@@ -4,8 +4,8 @@
 import * as THREE from "three";
 import { mergeGeometries } from "three/examples/jsm/utils/BufferGeometryUtils.js";
 import type { BuiltSet } from "./types";
-import { canvasTex, dab, ink, box } from "../farm";
-import { mkRnd, toonO, noShadow, cyl, paintedSky, grassTex, grassField, groundMat, keyLight } from "./h2kit";
+import { canvasTex, dab } from "../farm";
+import { mkRnd, toonO, noShadow, cyl, paintedSky, grassTex, grassField, groundMat, keyLight, ink, box } from "./h2kit";
 
 const sp = (u: number) => Math.log1p(Math.exp(u));
 // terrain: a flat shoulder for the plot, the hill rising behind (-Z, -X) and falling away in front (+Z)
